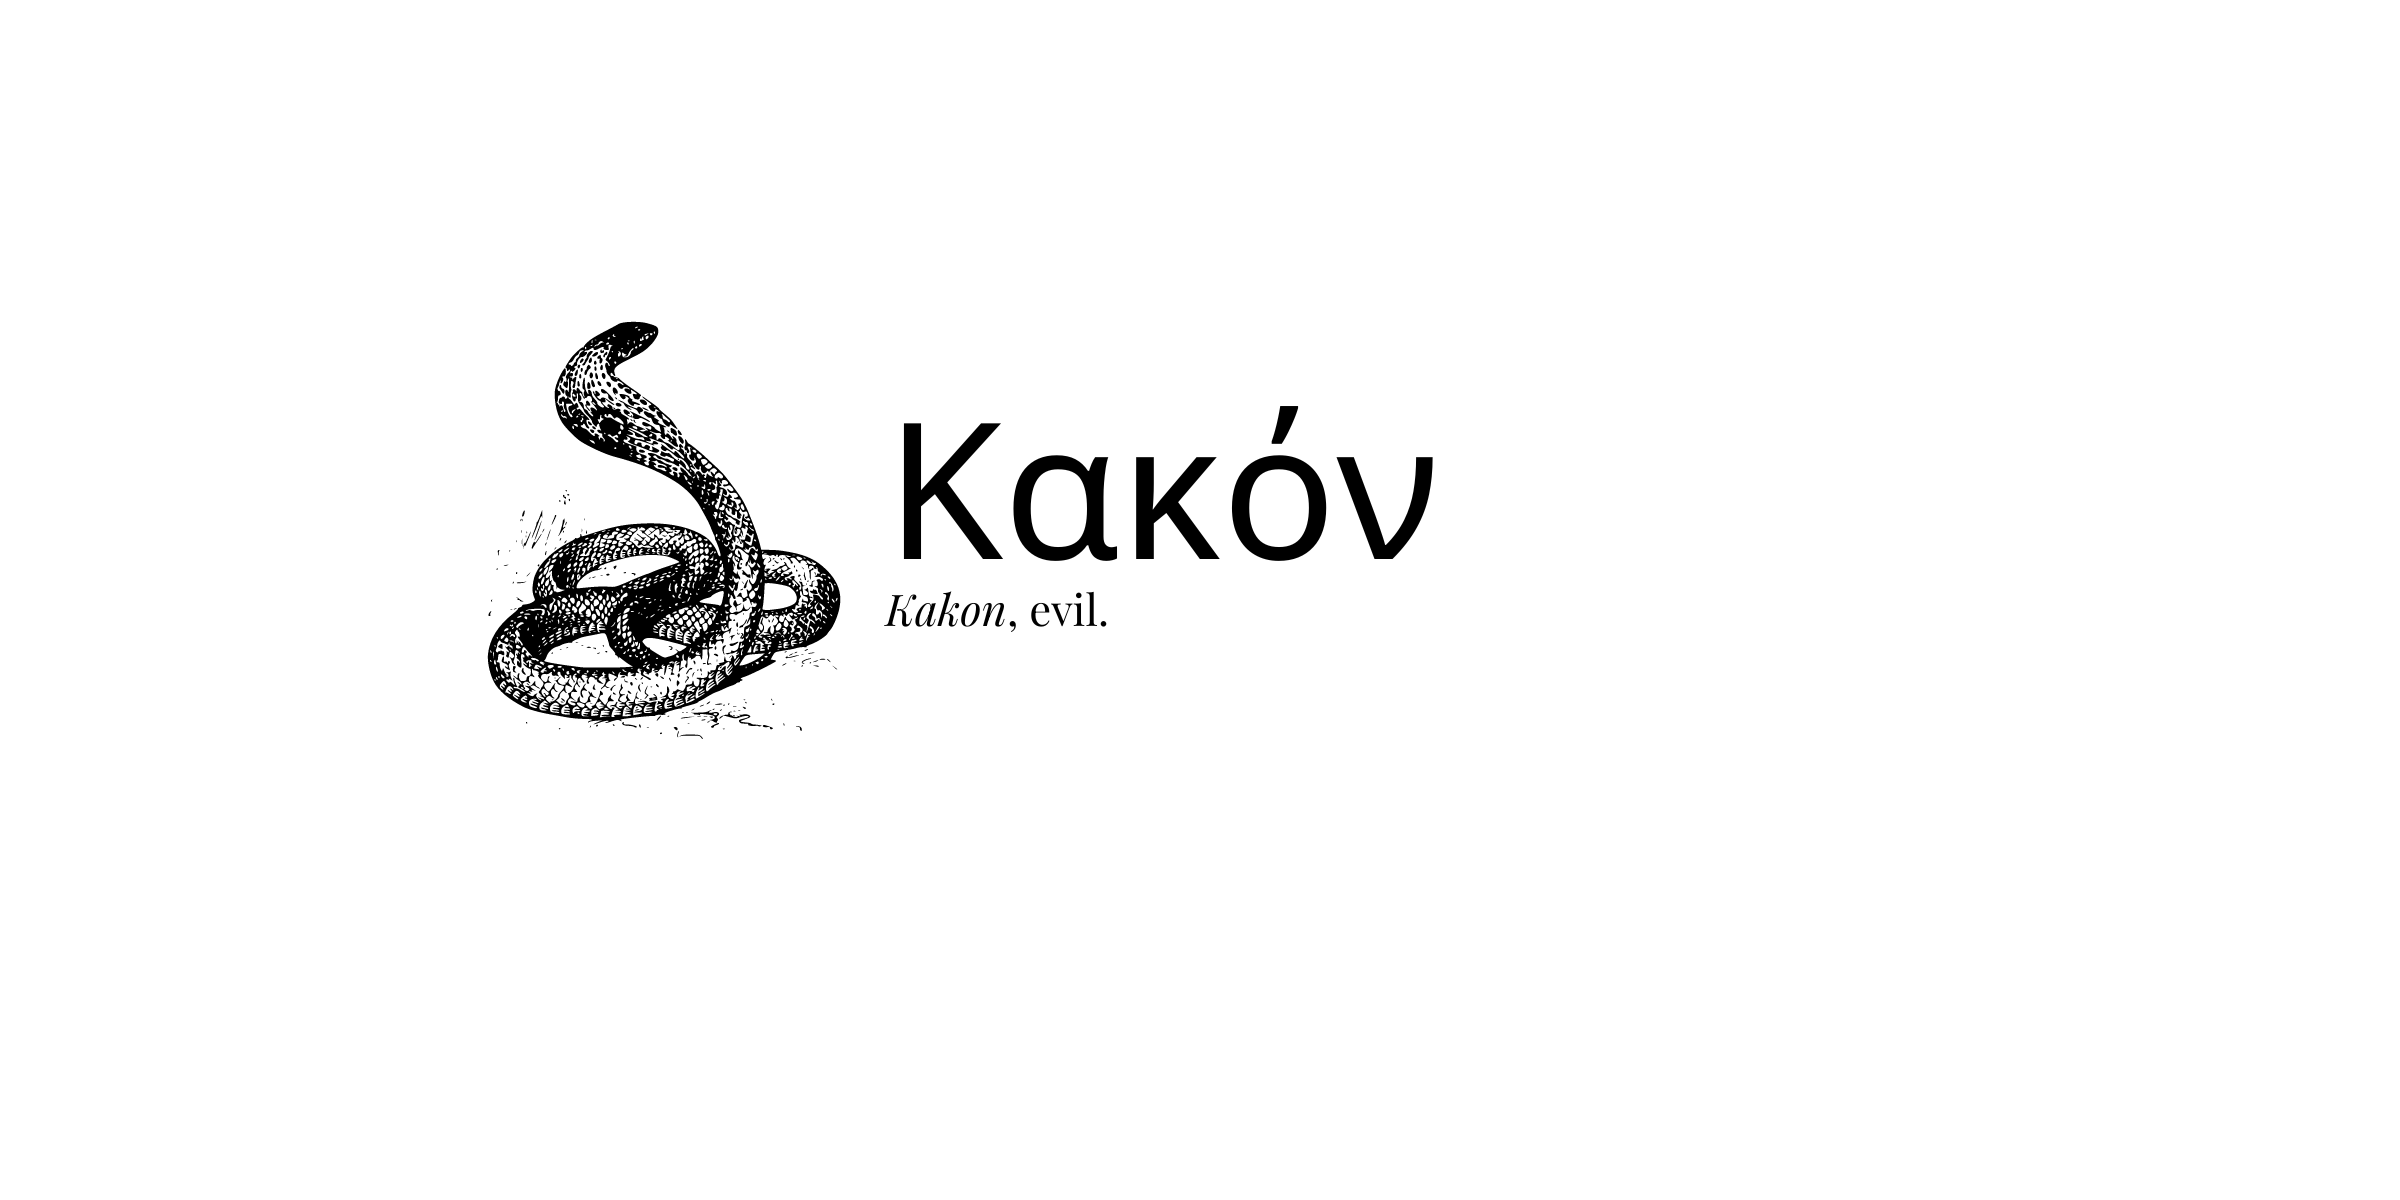
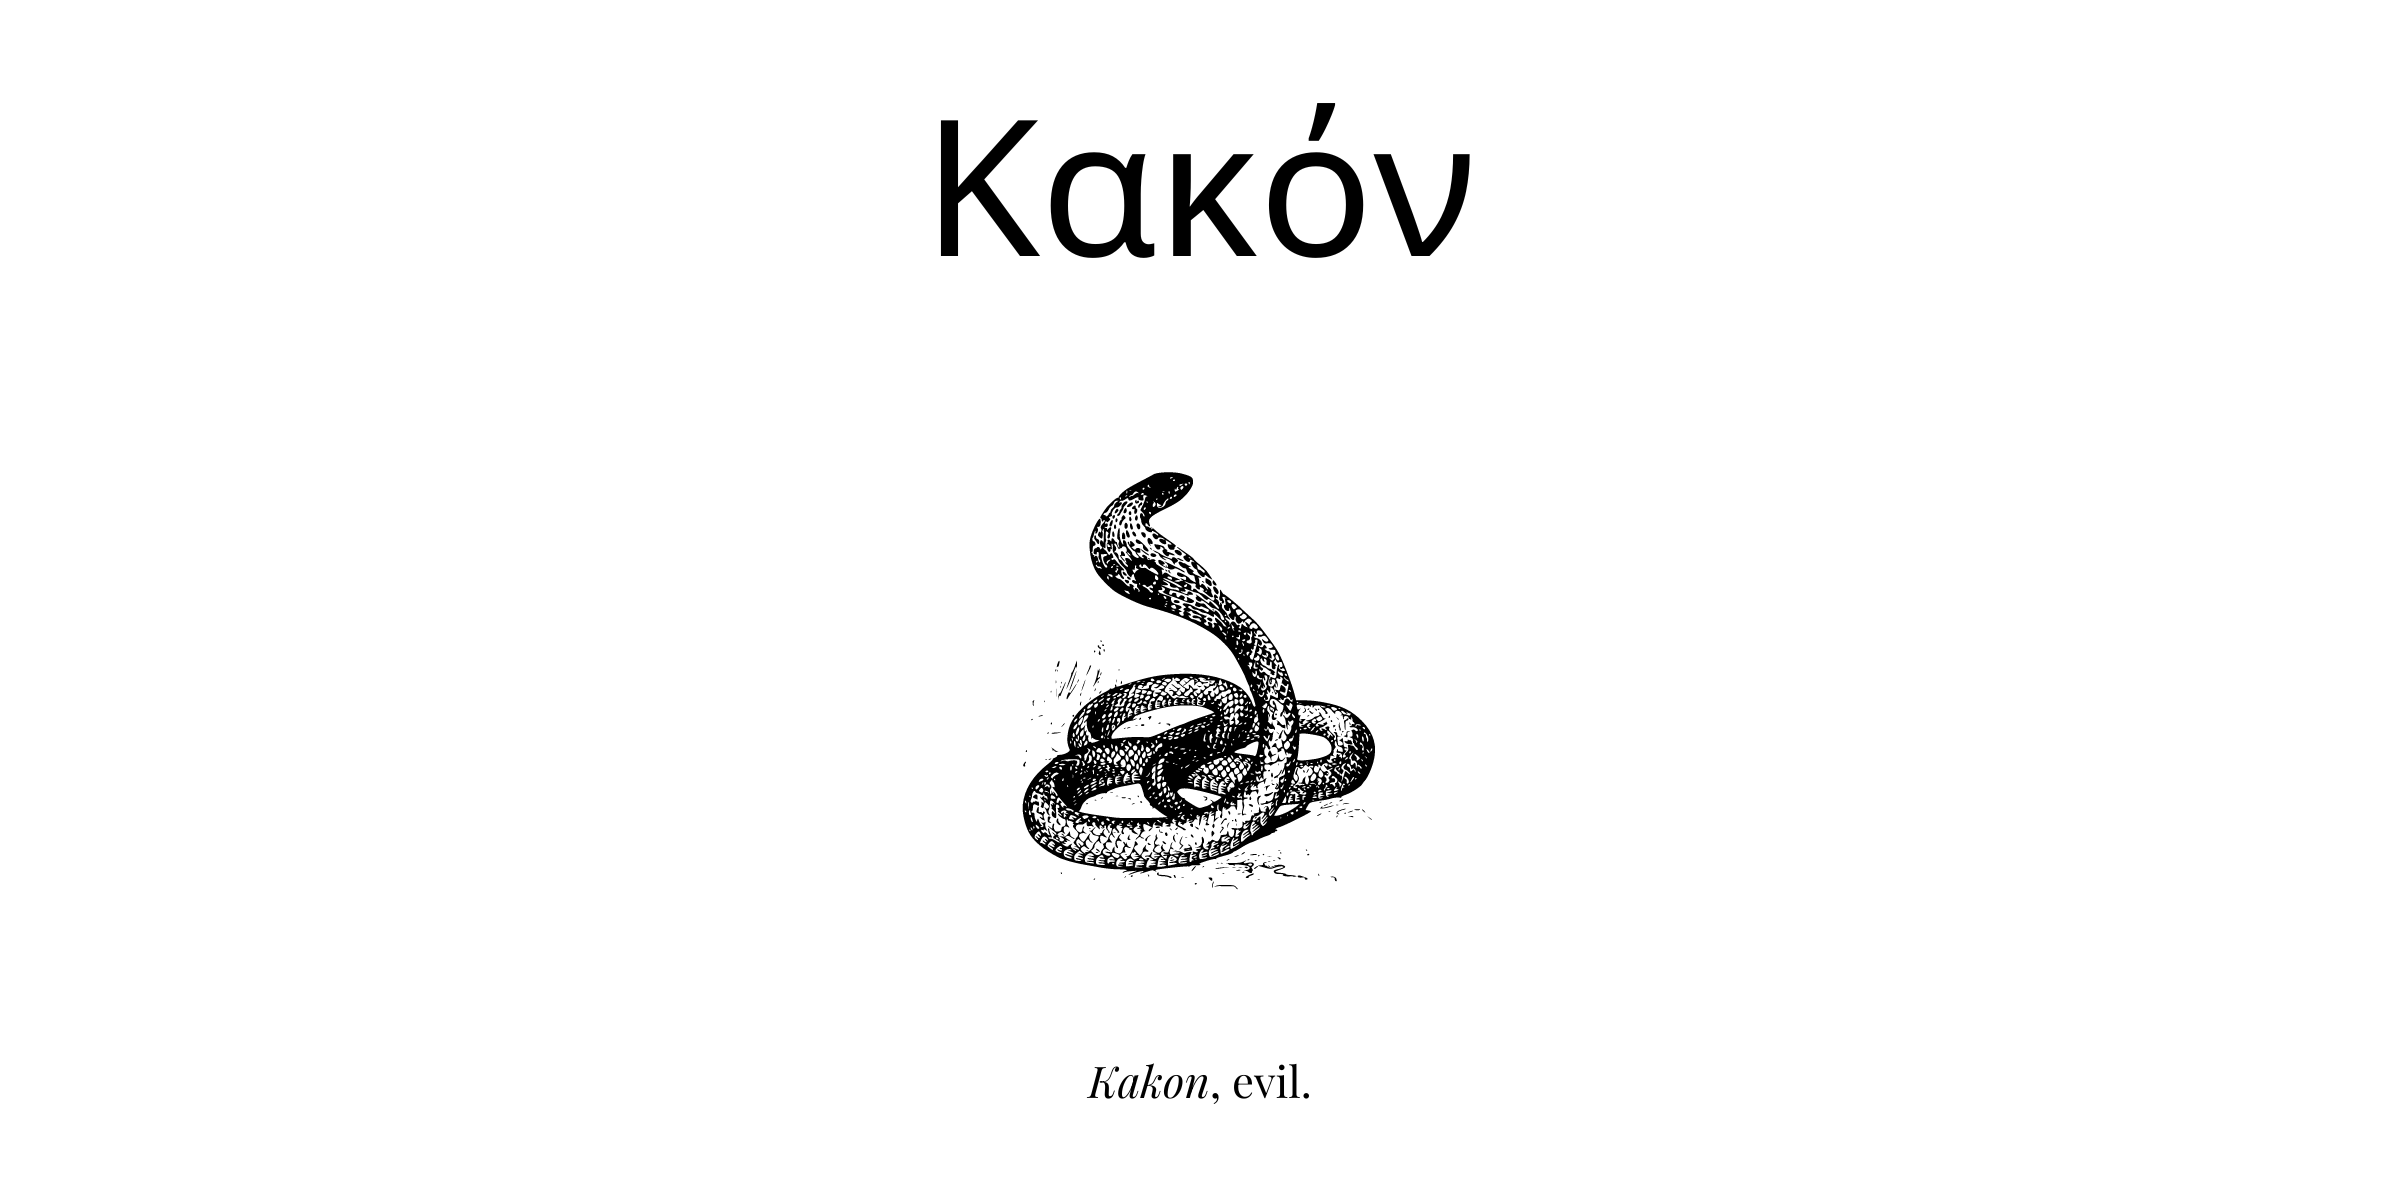
Increased spacing between story tiles and content on single tile pages

Changed region(s): [[0.1875, 0.2467, 0.5938, 0.74], [0.375, 0.0925, 0.625, 0.2158], [0.4375, 0.8942, 0.5625, 0.925]]

diff --git a/public/gallery/prometheus/phronesis/index.html b/public/gallery/prometheus/phronesis/index.html
@@ -25,12 +25,16 @@
 </div>
 
 
+
 <div class="single-tile-container">
     <div class="hover-tile">
-        <img class="tile-front" src="/images/single/phronesis-single-front.png" alt="Front of Phronesis">
-        <img class="tile-back" src="/images/single/phronesis-single-back.png" alt="Back of Phronesis">
+        <div class="tile-inner">
+            <img class="tile-front" src="/images/story/phronesis-story-image.png" alt="Front of Phronesis">
+            <img class="tile-back" src="/images/single/phronesis-single-back.png" alt="Back of Phronesis">
+        </div>
     </div>
 </div>
+
 
 
 <div class="green-band">
@@ -93,6 +97,12 @@
 </div>
 
 
+<div class="story-content">
+    <h2>Phronesis – Practical Wisdom</h2>
+    <p>Phronesis represents practical wisdom and sound judgment, an essential aspect of Prometheus’s character in gifting fire to humanity.</p>
+    <p>It highlights the balance between knowledge and its responsible use. In Prometheus’s case, his foresight guided the thoughtful use of fire despite Zeus&#39;s disapproval.</p>
+    <p>In the context of AI, Phronesis serves as a call for responsible innovation. It reminds us to develop AI tools not just because we can, but because they bring meaningful value to society.</p>
+</div>
 
 </body>
 </html>

diff --git a/public/gallery/prometheus/philanthropia/index.html b/public/gallery/prometheus/philanthropia/index.html
@@ -25,12 +25,16 @@
 </div>
 
 
+
 <div class="single-tile-container">
     <div class="hover-tile">
-        <img class="tile-front" src="/images/single/philanthropia-single-front.png" alt="Front of Philanthropia">
-        <img class="tile-back" src="/images/single/philanthropia-single-back.png" alt="Back of Philanthropia">
+        <div class="tile-inner">
+            <img class="tile-front" src="/images/story/philanthropia-story-image.png" alt="Front of Philanthropia">
+            <img class="tile-back" src="/images/single/philanthropia-single-back.png" alt="Back of Philanthropia">
+        </div>
     </div>
 </div>
+
 
 
 <div class="green-band">
@@ -93,6 +97,12 @@
 </div>
 
 
+<div class="story-content">
+    <h2>Philanthropia – Love of Humanity</h2>
+    <p>Prometheus’s gift was not just fire but an act of philanthropy, born out of love for humanity. It demonstrated a selfless desire to uplift humankind.</p>
+    <p>This theme encourages reflection on how knowledge and technology, like AI, can be used for social good—fostering community, connection, and well-being.</p>
+    <p>AI has the potential to transform society, but it must be wielded with care to ensure it benefits all, much like Prometheus’s gift to humanity.</p>
+</div>
 
 </body>
 </html>

diff --git a/public/gallery/prometheus/pyr/index.html b/public/gallery/prometheus/pyr/index.html
@@ -25,12 +25,16 @@
 </div>
 
 
+
 <div class="single-tile-container">
     <div class="hover-tile">
-        <img class="tile-front" src="/images/single/pyr-single-front.png" alt="Front of Pyr">
-        <img class="tile-back" src="/images/single/pyr-single-back.png" alt="Back of Pyr">
+        <div class="tile-inner">
+            <img class="tile-front" src="/images/story/pyr-story-image.png" alt="Front of Pyr">
+            <img class="tile-back" src="/images/single/pyr-single-back.png" alt="Back of Pyr">
+        </div>
     </div>
 </div>
+
 
 
 <div class="green-band">
@@ -93,6 +97,12 @@
 </div>
 
 
+<div class="story-content">
+    <h2>The Origin of Pyr</h2>
+    <p>Pyr, meaning &#39;fire,&#39; is central to the story of Prometheus, who defied the gods to bring fire to humanity. This act was both a gift and a burden, symbolizing knowledge, enlightenment, and progress.</p>
+    <p>Prometheus&#39;s gift of fire represented humanity’s shift toward independence and innovation, embodying our ability to create and shape our future.</p>
+    <p>In the context of artificial intelligence, Pyr serves as a metaphor for progress with risks—raising questions about control, ethics, and consequence.</p>
+</div>
 
 </body>
 </html>

diff --git a/public/gallery/epimetheus/ameles/index.html b/public/gallery/epimetheus/ameles/index.html
@@ -25,12 +25,16 @@
 </div>
 
 
+
 <div class="single-tile-container">
     <div class="hover-tile">
-        <img class="tile-front" src="/images/single/ameles-single-front.png" alt="Front of Ameles">
-        <img class="tile-back" src="/images/single/ameles-single-back.png" alt="Back of Ameles">
+        <div class="tile-inner">
+            <img class="tile-front" src="/images/story/ameles-story-image.png" alt="Front of Ameles">
+            <img class="tile-back" src="/images/single/ameles-single-back.png" alt="Back of Ameles">
+        </div>
     </div>
 </div>
+
 
 
 <div class="green-band">
@@ -93,6 +97,12 @@
 </div>
 
 
+<div class="story-content">
+    <h2>Ameles – The Consequences of Neglect</h2>
+    <p>Ameles represents negligence, symbolizing Epimetheus&#39;s failure to think ahead when gifting animals their abilities.</p>
+    <p>It serves as a cautionary tale for today’s AI developers—reminding us of the risks when we prioritize speed and innovation over thoughtful design.</p>
+    <p>Neglect in the development of AI can lead to unforeseen challenges. Ameles warns us to stay vigilant and anticipate future consequences.</p>
+</div>
 
 </body>
 </html>

diff --git a/public/gallery/pandora/pyxis/index.html b/public/gallery/pandora/pyxis/index.html
@@ -25,12 +25,16 @@
 </div>
 
 
+
 <div class="single-tile-container">
     <div class="hover-tile">
-        <img class="tile-front" src="/images/single/pyxis-single-front.png" alt="Front of Pyxis">
-        <img class="tile-back" src="/images/single/pyxis-single-back.png" alt="Back of Pyxis">
+        <div class="tile-inner">
+            <img class="tile-front" src="/images/story/pyxis-story-image.png" alt="Front of Pyxis">
+            <img class="tile-back" src="/images/single/pyxis-single-back.png" alt="Back of Pyxis">
+        </div>
     </div>
 </div>
+
 
 
 <div class="green-band">
@@ -93,6 +97,12 @@
 </div>
 
 
+<div class="story-content">
+    <h2>Pyxis – The Box of Curiosity</h2>
+    <p>Pyxis, often referred to as Pandora’s box, symbolizes the risks of unchecked curiosity. It contained all the world’s evils, released by Pandora.</p>
+    <p>While curiosity drives innovation, it can also lead to unintended consequences—just as it did with Pandora’s box.</p>
+    <p>In the realm of AI, Pyxis serves as a reminder to explore with caution and responsibility, ensuring that what we unleash serves the greater good.</p>
+</div>
 
 </body>
 </html>

diff --git a/public/gallery/epimetheus/zoa/index.html b/public/gallery/epimetheus/zoa/index.html
@@ -25,12 +25,16 @@
 </div>
 
 
+
 <div class="single-tile-container">
     <div class="hover-tile">
-        <img class="tile-front" src="/images/single/zoa-single-front.png" alt="Front of Zoa">
-        <img class="tile-back" src="/images/single/zoa-single-back.png" alt="Back of Zoa">
+        <div class="tile-inner">
+            <img class="tile-front" src="/images/story/zoa-story-image.png" alt="Front of Zoa">
+            <img class="tile-back" src="/images/single/zoa-single-back.png" alt="Back of Zoa">
+        </div>
     </div>
 </div>
+
 
 
 <div class="green-band">
@@ -93,6 +97,12 @@
 </div>
 
 
+<div class="story-content">
+    <h2>Zoa – Life and Creation</h2>
+    <p>Epimetheus, unlike Prometheus, focused on animals, granting them unique traits for survival—strength, speed, and flight.</p>
+    <p>Zoa emphasizes balance in nature and the need to equip each being with the tools necessary for survival, a lesson relevant to how we build technologies today.</p>
+    <p>As AI continues to evolve, Zoa reminds us to focus on responsible creation—tools that help without harming the environment or society.</p>
+</div>
 
 </body>
 </html>

diff --git a/public/gallery/pandora/elpis/index.html b/public/gallery/pandora/elpis/index.html
@@ -25,12 +25,16 @@
 </div>
 
 
+
 <div class="single-tile-container">
     <div class="hover-tile">
-        <img class="tile-front" src="/images/single/elpis-single-front.png" alt="Front of Elpis">
-        <img class="tile-back" src="/images/single/elpis-single-back.png" alt="Back of Elpis">
+        <div class="tile-inner">
+            <img class="tile-front" src="/images/story/elpis-story-image.png" alt="Front of Elpis">
+            <img class="tile-back" src="/images/single/elpis-single-back.png" alt="Back of Elpis">
+        </div>
     </div>
 </div>
+
 
 
 <div class="green-band">
@@ -93,6 +97,12 @@
 </div>
 
 
+<div class="story-content">
+    <h2>Elpis – The Spirit of Hope</h2>
+    <p>Elpis, the last entity in Pandora’s box, symbolizes hope—a reminder that even in the face of adversity, there is always a way forward.</p>
+    <p>In a world shaped by AI, Elpis inspires us to remain hopeful that technology can improve our lives if guided by ethics and compassion.</p>
+    <p>Elpis serves as a beacon, urging us to see AI not just as a challenge, but as an opportunity to build a better future.</p>
+</div>
 
 </body>
 </html>

diff --git a/public/gallery/epimetheus/physis/index.html b/public/gallery/epimetheus/physis/index.html
@@ -25,12 +25,16 @@
 </div>
 
 
+
 <div class="single-tile-container">
     <div class="hover-tile">
-        <img class="tile-front" src="/images/single/physis-single-front.png" alt="Front of Physis">
-        <img class="tile-back" src="/images/single/physis-single-back.png" alt="Back of Physis">
+        <div class="tile-inner">
+            <img class="tile-front" src="/images/story/physis-story-image.png" alt="Front of Physis">
+            <img class="tile-back" src="/images/single/physis-single-back.png" alt="Back of Physis">
+        </div>
     </div>
 </div>
+
 
 
 <div class="green-band">
@@ -93,6 +97,12 @@
 </div>
 
 
+<div class="story-content">
+    <h2>Physis – The Essence of Nature</h2>
+    <p>Physis captures the natural world&#39;s essence, reflecting the beauty and unpredictability of life.</p>
+    <p>This reminds us to respect the power of nature and acknowledge that technology, including AI, must harmonize with the world around us.</p>
+    <p>AI development inspired by Physis encourages sustainable and eco-conscious technologies that work with, rather than against, nature.</p>
+</div>
 
 </body>
 </html>

diff --git a/public/gallery/pandora/kakon/index.html b/public/gallery/pandora/kakon/index.html
@@ -25,12 +25,16 @@
 </div>
 
 
+
 <div class="single-tile-container">
     <div class="hover-tile">
-        <img class="tile-front" src="/images/single/kakon-single-front.png" alt="Front of Kakon">
-        <img class="tile-back" src="/images/single/kakon-single-back.png" alt="Back of Kakon">
+        <div class="tile-inner">
+            <img class="tile-front" src="/images/story/kakon-story-image.png" alt="Front of Kakon">
+            <img class="tile-back" src="/images/single/kakon-single-back.png" alt="Back of Kakon">
+        </div>
     </div>
 </div>
+
 
 
 <div class="green-band">
@@ -93,6 +97,12 @@
 </div>
 
 
+<div class="story-content">
+    <h2>Kakon – The Unleashing of Evil</h2>
+    <p>Kakon refers to the release of evil from Pandora’s box, marking the beginning of human suffering.</p>
+    <p>It highlights the importance of being mindful of the consequences that arise from technological progress—where the potential for harm is as real as the potential for good.</p>
+    <p>With AI, Kakon urges us to regulate and guide its development to avoid catastrophic outcomes.</p>
+</div>
 
 </body>
 </html>

diff --git a/layouts/_default/single.html b/layouts/_default/single.html
@@ -24,13 +24,17 @@
     <h1 class="page-title">{{ .Title }}</h1>
 </div>
 
-<!-- Single Tile Container with Hover Effect -->
+
+<!-- Single Tile Container with Story Image -->
 <div class="single-tile-container">
     <div class="hover-tile">
-        <img class="tile-front" src="/images/single/{{ .Params.imageFront }}" alt="Front of {{ .Title }}">
-        <img class="tile-back" src="/images/single/{{ .Params.imageBack }}" alt="Back of {{ .Title }}">
+        <div class="tile-inner">
+            <img class="tile-front" src="{{ .Params.contentImage }}" alt="Front of {{ .Title }}">
+            <img class="tile-back" src="/images/single/{{ .Params.imageBack }}" alt="Back of {{ .Title }}">
+        </div>
     </div>
 </div>
+
 
 <!-- Green Band with Pagination Arrows and Description -->
 <div class="green-band">
@@ -78,7 +82,13 @@
     </div>
 </div>
 
-
+<!-- Story Content (without image) -->
+<div class="story-content">
+    <h2>{{ .Params.contentTitle }}</h2>
+    <p>{{ .Params.contentText1 }}</p>
+    <p>{{ .Params.contentText2 }}</p>
+    <p>{{ .Params.contentText3 }}</p>
+</div>
 
 </body>
 </html>

diff --git a/public/css/custom.css b/public/css/custom.css
@@ -246,3 +246,30 @@ body {
     margin: 0;
 }
 
+/* Increase space below the single tile container */
+.single-tile-container {
+    max-width: 800px;
+    margin: 20px auto 100px auto; /* Increased bottom margin */
+    perspective: 1000px;
+}
+
+/* Increase spacing between story content sections */
+.story-content {
+    max-width: 800px;
+    margin: 100px auto; /* Increased top and bottom margin */
+    text-align: center;
+    padding-top: 40px; /* Optional: Add more top padding */
+}
+
+/* Additional spacing between story content paragraphs */
+.story-content p {
+    margin-bottom: 30px; /* Increase spacing between paragraphs */
+}
+
+
+
+/* Optional: Adjust padding between tile and green band */
+.green-band {
+    margin-top: 40px;  /* Add space between the story content and green band */
+}
+

diff --git a/static/css/custom.css b/static/css/custom.css
@@ -246,3 +246,30 @@ body {
     margin: 0;
 }
 
+/* Increase space below the single tile container */
+.single-tile-container {
+    max-width: 800px;
+    margin: 20px auto 100px auto; /* Increased bottom margin */
+    perspective: 1000px;
+}
+
+/* Increase spacing between story content sections */
+.story-content {
+    max-width: 800px;
+    margin: 100px auto; /* Increased top and bottom margin */
+    text-align: center;
+    padding-top: 40px; /* Optional: Add more top padding */
+}
+
+/* Additional spacing between story content paragraphs */
+.story-content p {
+    margin-bottom: 30px; /* Increase spacing between paragraphs */
+}
+
+
+
+/* Optional: Adjust padding between tile and green band */
+.green-band {
+    margin-top: 40px;  /* Add space between the story content and green band */
+}
+
